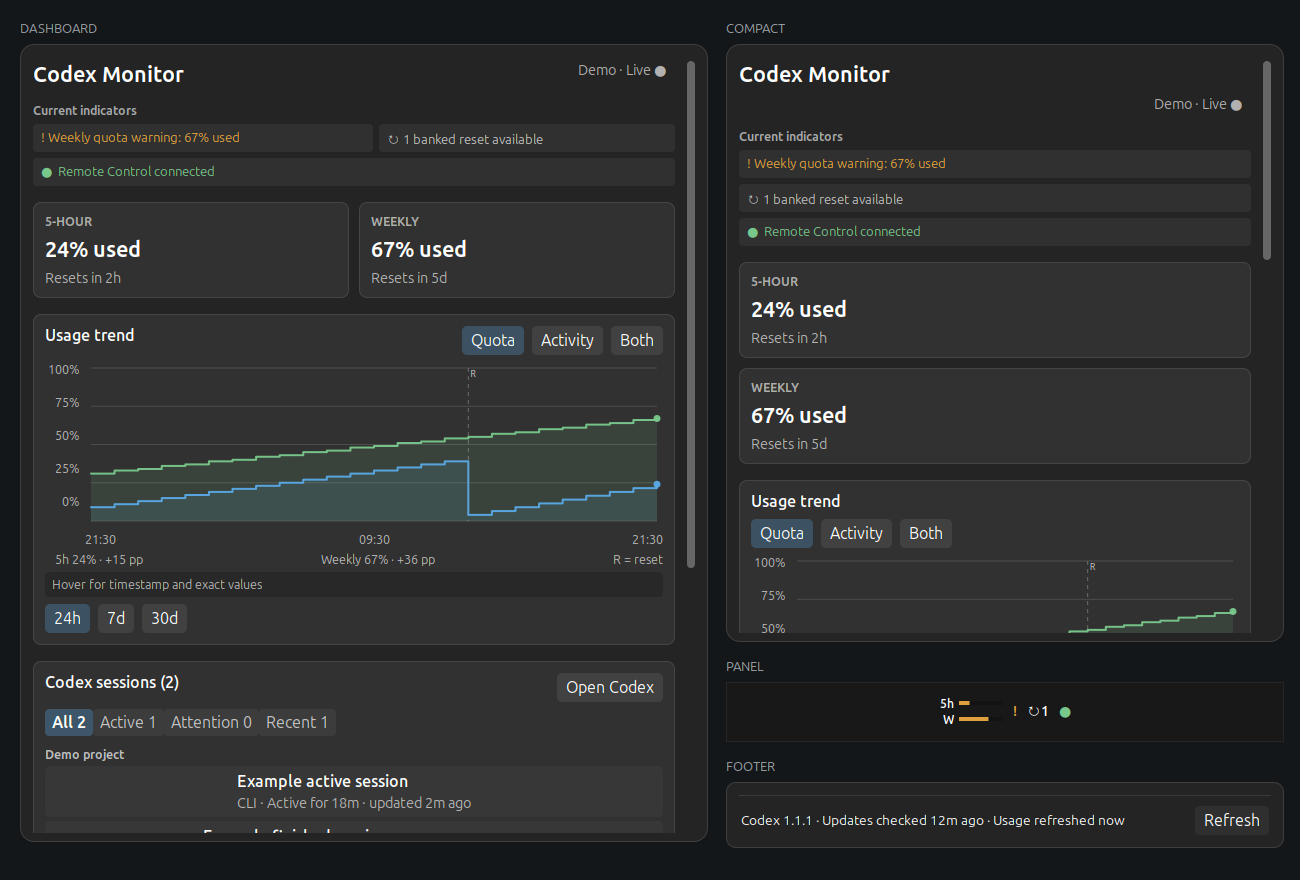
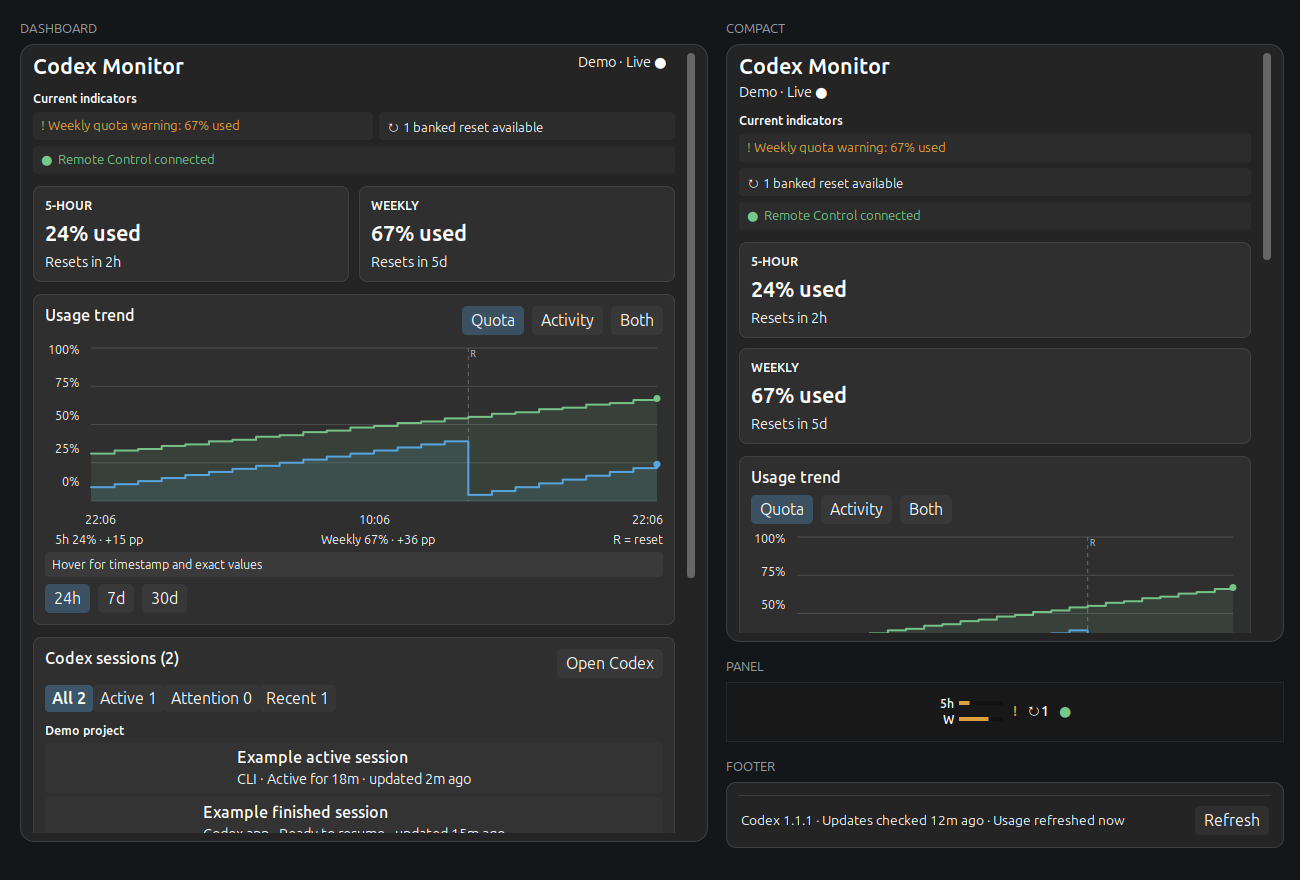
fix: tighten responsive dashboard spacing

diff --git a/files/codex-monitor@breixopd/stylesheet.css b/files/codex-monitor@breixopd/stylesheet.css
@@ -70,7 +70,7 @@
 }
 
 .codex-monitor-dashboard {
-  spacing: 16px;
+  spacing: 12px;
 }
 
 .popup-menu-item.codex-monitor-menu-item {
@@ -82,7 +82,7 @@
 
 .codex-monitor-scroll {
   max-height: 752px;
-  padding: 16px 0 8px;
+  padding: 8px 0;
 }
 
 .codex-monitor-scroll StScrollBar {
@@ -146,6 +146,15 @@
   width: 160px;
   margin-right: 8px;
   text-align: right;
+}
+
+.codex-monitor-compact .codex-monitor-header {
+  spacing: 4px;
+}
+
+.codex-monitor-compact .codex-monitor-header .codex-monitor-status {
+  margin-right: 0;
+  text-align: left;
 }
 
 .codex-monitor-card-row {

diff --git a/tests/python/test_applet_source.py b/tests/python/test_applet_source.py
@@ -131,7 +131,7 @@ def test_scroll_viewport_owns_padding_and_clips_the_moving_dashboard():
     assert "padding-right: 0" in menu_item_rule
     assert "margin-left: 0" in menu_item_rule
     assert "margin-right: 0" in menu_item_rule
-    assert "padding: 16px 0 8px" in scroll_rule
+    assert "padding: 8px 0" in scroll_rule
     assert "max-height: 752px" in scroll_rule
     assert "set_clip_to_allocation(true)" in applet
     assert "overlay_scrollbars: false" in applet
@@ -492,6 +492,26 @@ def test_dashboard_styles_use_theme_neutral_surfaces_and_inherited_text():
     assert "color: #ffffff" not in source
     assert "background-color: rgba(128, 128, 128" in source
     assert "color: inherit" in source
+
+
+def test_dashboard_uses_tighter_balanced_spacing_in_both_layouts():
+    source = STYLESHEET_SOURCE.read_text(encoding="utf-8")
+
+    dashboard = _css_rule(source, ".codex-monitor-dashboard")
+    scroll = _css_rule(source, ".codex-monitor-scroll")
+    compact_header = _css_rule(
+        source, ".codex-monitor-compact .codex-monitor-header"
+    )
+    compact_status = _css_rule(
+        source,
+        ".codex-monitor-compact .codex-monitor-header .codex-monitor-status",
+    )
+
+    assert "spacing: 12px" in dashboard
+    assert "padding: 8px 0" in scroll
+    assert "spacing: 4px" in compact_header
+    assert "margin-right: 0" in compact_status
+    assert "text-align: left" in compact_status
 
 
 def test_unchanged_remote_polls_reuse_panel_and_dashboard_indicator_actors():

diff --git a/CHANGELOG.md b/CHANGELOG.md
@@ -5,6 +5,7 @@
 ### Changed
 
 - Combined the Codex version, update-check freshness, usage-refresh freshness, and footer actions into one responsive dashboard footer
+- Tightened normal and compact dashboard spacing, with the compact status grouped beneath the title
 
 ## [1.2.2] - 2026-07-16
 